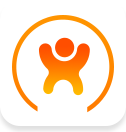
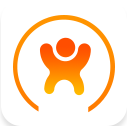
删除.svn

Changed region(s): [[0.0952, 0.0952, 0.9286, 0.9048], [0.3095, 0.2619, 0.7381, 0.7619], [0.0238, 0.9048, 0.9762, 1.0]]

diff --git a/css/main.css b/css/main.css
@@ -3405,7 +3405,11 @@
     height: 132px;
     margin: 118px auto 0;
     background: url("../images/readIcon.png") 0 0 no-repeat;
-    background-size: contain; }
+    background-size: contain;
+    -webkit-box-shadow: 0 0 10px #f5a54d;
+    -moz-box-shadow: 0 0 10px #f5a54d;
+    box-shadow: 0 0 10px #f5a54d;
+    /*no*/ }
   .share .font {
     width: 435px;
     height: 105px;

diff --git a/css/main.merge.css b/css/main.merge.css
@@ -4284,6 +4284,9 @@ body.ie8 .tips {
   margin: 1.638889rem auto 0;
   background: url("../images/readIcon.png") 0 0 no-repeat;
   background-size: contain;
+  -webkit-box-shadow: 0 0 0.138889rem #f5a54d;
+  -moz-box-shadow: 0 0 0.138889rem #f5a54d;
+  box-shadow: 0 0 10px #f5a54d;
 }
 
 .share .font {

diff --git a/css/sass/share.scss b/css/sass/share.scss
@@ -12,6 +12,9 @@
 		margin: 118px auto 0;
 		background: url("../images/readIcon.png") 0 0 no-repeat;
 		background-size: contain;
+		-webkit-box-shadow:0 0 10px #f5a54d;
+		-moz-box-shadow:0 0 10px #f5a54d;
+		box-shadow:0 0 10px #f5a54d;/*no*/
 	}
 	.font{
 		width: 435px;

diff --git a/gulpfile.js b/gulpfile.js
@@ -68,7 +68,6 @@ gulp.task('browser-sync', function() {
 		server: {
 			baseDir: "./"//定义从那个位置启动服务器
 		},
-		port: 8080
 	});
 });
 gulp.task('watch', function () {
